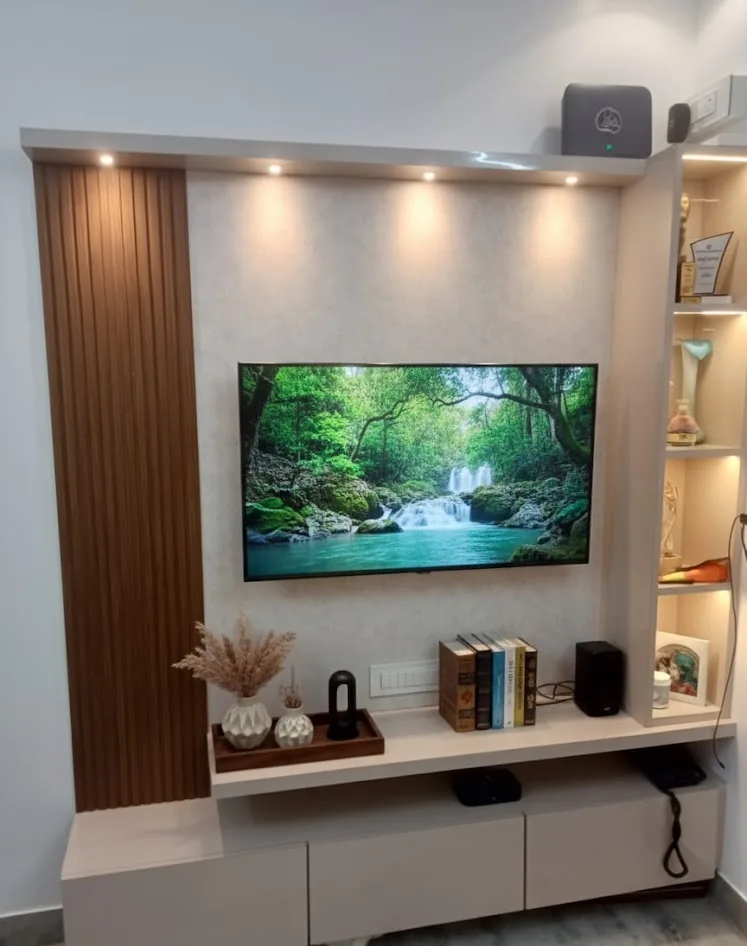
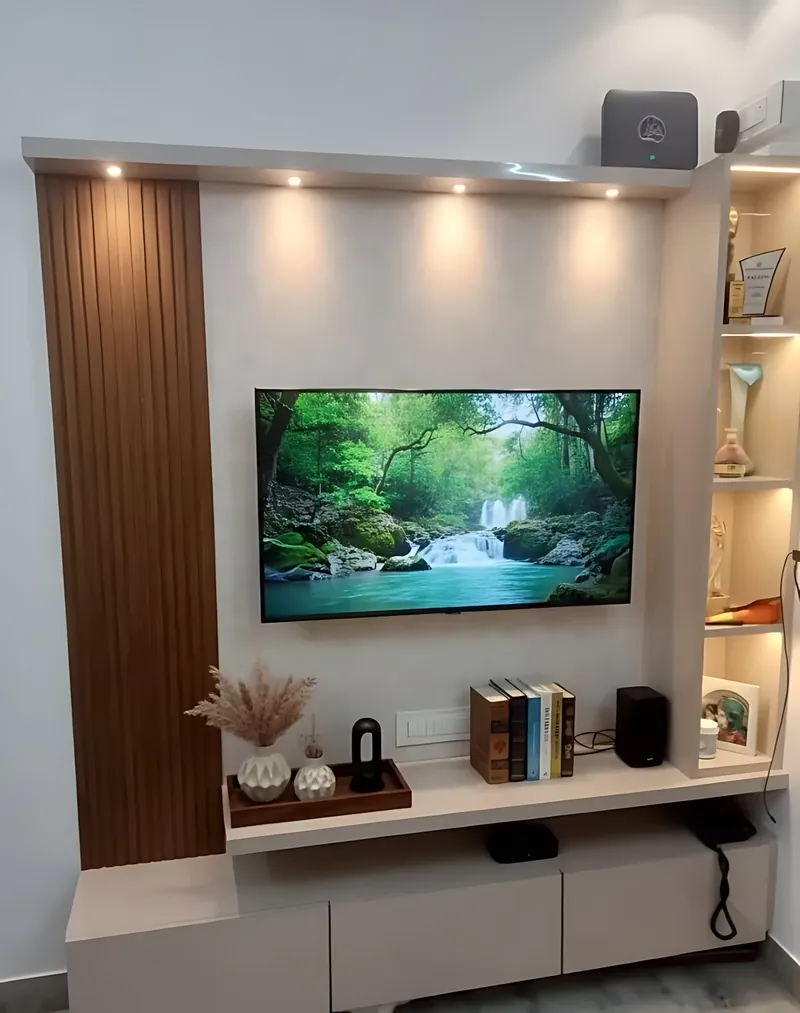
Gallery: upscaled tables 5-6 and TV units 1-3
Claude-Session: https://claude.ai/code/session_01ELdwAKhBt2vqUy2cJdKuWJ

Changed region(s): [[0.3695, 0.4905, 0.4618, 0.5211], [0.4926, 0.5211, 0.5234, 0.5518]]

diff --git a/gallery.html b/gallery.html
@@ -171,7 +171,7 @@
           <figure class="gx-tile" data-cat="table"><img src="images/table1.webp" alt="Custom table by Wood Works Studio" width="800" height="735" loading="lazy" decoding="async" /><figcaption>Custom table</figcaption></figure>
           <figure class="gx-tile" data-cat="counter"><img src="images/counter1.webp" alt="Kitchen counter by Wood Works Studio" width="800" height="494" loading="lazy" decoding="async" /><figcaption>Kitchen counter</figcaption></figure>
           <figure class="gx-tile" data-cat="door"><img src="images/door1.webp" alt="Wooden door by Wood Works Studio" width="800" height="1634" loading="lazy" decoding="async" /><figcaption>Wooden door</figcaption></figure>
-          <figure class="gx-tile" data-cat="tv"><img src="images/tv1.webp" alt="TV unit by Wood Works Studio" width="747" height="946" loading="lazy" decoding="async" /><figcaption>TV unit</figcaption></figure>
+          <figure class="gx-tile" data-cat="tv"><img src="images/tv1.webp" alt="TV unit by Wood Works Studio" width="800" height="1013" loading="lazy" decoding="async" /><figcaption>TV unit</figcaption></figure>
           <figure class="gx-tile" data-cat="vanity"><img src="images/vanity1.webp" alt="Bathroom vanity by Wood Works Studio" width="800" height="1715" loading="lazy" decoding="async" /><figcaption>Bathroom vanity</figcaption></figure>
           <figure class="gx-tile" data-cat="wardrobe"><img src="images/wardrobe2.webp" alt="Custom wardrobe by Wood Works Studio" width="800" height="622" loading="lazy" decoding="async" /><figcaption>Custom wardrobe</figcaption></figure>
           <figure class="gx-tile" data-cat="sofa"><img src="images/sofa2.webp" alt="Custom sofa by Wood Works Studio" width="800" height="726" loading="lazy" decoding="async" /><figcaption>Custom sofa</figcaption></figure>
@@ -179,7 +179,7 @@
           <figure class="gx-tile" data-cat="table"><img src="images/table2.webp" alt="Custom table by Wood Works Studio" width="800" height="742" loading="lazy" decoding="async" /><figcaption>Custom table</figcaption></figure>
           <figure class="gx-tile" data-cat="counter"><img src="images/counter2.webp" alt="Kitchen counter by Wood Works Studio" width="1000" height="1047" loading="lazy" decoding="async" /><figcaption>Kitchen counter</figcaption></figure>
           <figure class="gx-tile" data-cat="door"><img src="images/door2.webp" alt="Wooden door by Wood Works Studio" width="800" height="1490" loading="lazy" decoding="async" /><figcaption>Wooden door</figcaption></figure>
-          <figure class="gx-tile" data-cat="tv"><img src="images/tv2.webp" alt="TV unit by Wood Works Studio" width="952" height="691" loading="lazy" decoding="async" /><figcaption>TV unit</figcaption></figure>
+          <figure class="gx-tile" data-cat="tv"><img src="images/tv2.webp" alt="TV unit by Wood Works Studio" width="800" height="581" loading="lazy" decoding="async" /><figcaption>TV unit</figcaption></figure>
           <figure class="gx-tile" data-cat="vanity"><img src="images/vanity2.webp" alt="Bathroom vanity by Wood Works Studio" width="800" height="681" loading="lazy" decoding="async" /><figcaption>Bathroom vanity</figcaption></figure>
           <figure class="gx-tile" data-cat="wardrobe"><img src="images/wardrobe3.webp" alt="Custom wardrobe by Wood Works Studio" width="800" height="837" loading="lazy" decoding="async" /><figcaption>Custom wardrobe</figcaption></figure>
           <figure class="gx-tile" data-cat="sofa"><img src="images/sofa3.webp" alt="Custom sofa by Wood Works Studio" width="800" height="739" loading="lazy" decoding="async" /><figcaption>Custom sofa</figcaption></figure>
@@ -187,7 +187,7 @@
           <figure class="gx-tile" data-cat="table"><img src="images/table3.webp" alt="Custom table by Wood Works Studio" width="800" height="548" loading="lazy" decoding="async" /><figcaption>Custom table</figcaption></figure>
           <figure class="gx-tile" data-cat="counter"><img src="images/counter3.webp" alt="Kitchen counter by Wood Works Studio" width="800" height="964" loading="lazy" decoding="async" /><figcaption>Kitchen counter</figcaption></figure>
           <figure class="gx-tile" data-cat="door"><img src="images/door3.webp" alt="Wooden door by Wood Works Studio" width="750" height="1397" loading="lazy" decoding="async" /><figcaption>Wooden door</figcaption></figure>
-          <figure class="gx-tile" data-cat="tv"><img src="images/tv3.webp" alt="TV unit by Wood Works Studio" width="965" height="448" loading="lazy" decoding="async" /><figcaption>TV unit</figcaption></figure>
+          <figure class="gx-tile" data-cat="tv"><img src="images/tv3.webp" alt="TV unit by Wood Works Studio" width="800" height="371" loading="lazy" decoding="async" /><figcaption>TV unit</figcaption></figure>
           <figure class="gx-tile" data-cat="vanity"><img src="images/vanity3.webp" alt="Bathroom vanity by Wood Works Studio" width="800" height="735" loading="lazy" decoding="async" /><figcaption>Bathroom vanity</figcaption></figure>
           <figure class="gx-tile" data-cat="wardrobe"><img src="images/wardrobe4.webp" alt="Custom wardrobe by Wood Works Studio" width="800" height="671" loading="lazy" decoding="async" /><figcaption>Custom wardrobe</figcaption></figure>
           <figure class="gx-tile" data-cat="sofa"><img src="images/sofa4.webp" alt="Custom sofa by Wood Works Studio" width="800" height="724" loading="lazy" decoding="async" /><figcaption>Custom sofa</figcaption></figure>
@@ -199,12 +199,12 @@
           <figure class="gx-tile" data-cat="wardrobe"><img src="images/wardrobe5.webp" alt="Custom wardrobe by Wood Works Studio" width="800" height="634" loading="lazy" decoding="async" /><figcaption>Custom wardrobe</figcaption></figure>
           <figure class="gx-tile" data-cat="sofa"><img src="images/sofa5.webp" alt="Custom sofa by Wood Works Studio" width="800" height="705" loading="lazy" decoding="async" /><figcaption>Custom sofa</figcaption></figure>
           <figure class="gx-tile" data-cat="bed"><img src="images/bed5.webp" alt="Custom bed by Wood Works Studio" width="800" height="401" loading="lazy" decoding="async" /><figcaption>Custom bed</figcaption></figure>
-          <figure class="gx-tile" data-cat="table"><img src="images/table5.webp" alt="Custom table by Wood Works Studio" width="1024" height="932" loading="lazy" decoding="async" /><figcaption>Custom table</figcaption></figure>
+          <figure class="gx-tile" data-cat="table"><img src="images/table5.webp" alt="Custom table by Wood Works Studio" width="800" height="728" loading="lazy" decoding="async" /><figcaption>Custom table</figcaption></figure>
           <figure class="gx-tile" data-cat="door"><img src="images/door5.webp" alt="Wooden door by Wood Works Studio" width="800" height="1020" loading="lazy" decoding="async" /><figcaption>Wooden door</figcaption></figure>
           <figure class="gx-tile" data-cat="wardrobe"><img src="images/wardrobe6.webp" alt="Custom wardrobe by Wood Works Studio" width="800" height="1307" loading="lazy" decoding="async" /><figcaption>Custom wardrobe</figcaption></figure>
           <figure class="gx-tile" data-cat="sofa"><img src="images/sofa6.webp" alt="Custom sofa by Wood Works Studio" width="800" height="729" loading="lazy" decoding="async" /><figcaption>Custom sofa</figcaption></figure>
           <figure class="gx-tile" data-cat="bed"><img src="images/bed6.webp" alt="Custom bed by Wood Works Studio" width="800" height="742" loading="lazy" decoding="async" /><figcaption>Custom bed</figcaption></figure>
-          <figure class="gx-tile" data-cat="table"><img src="images/table6.webp" alt="Custom table by Wood Works Studio" width="949" height="904" loading="lazy" decoding="async" /><figcaption>Custom table</figcaption></figure>
+          <figure class="gx-tile" data-cat="table"><img src="images/table6.webp" alt="Custom table by Wood Works Studio" width="800" height="762" loading="lazy" decoding="async" /><figcaption>Custom table</figcaption></figure>
           <figure class="gx-tile" data-cat="wardrobe"><img src="images/wardrobe7.webp" alt="Custom wardrobe by Wood Works Studio" width="800" height="1559" loading="lazy" decoding="async" /><figcaption>Custom wardrobe</figcaption></figure>
           <figure class="gx-tile" data-cat="sofa"><img src="images/sofa7.webp" alt="Custom sofa by Wood Works Studio" width="800" height="741" loading="lazy" decoding="async" /><figcaption>Custom sofa</figcaption></figure>
           <figure class="gx-tile" data-cat="wardrobe"><img src="images/wardrobe8.webp" alt="Custom wardrobe by Wood Works Studio" width="800" height="1597" loading="lazy" decoding="async" /><figcaption>Custom wardrobe</figcaption></figure>
